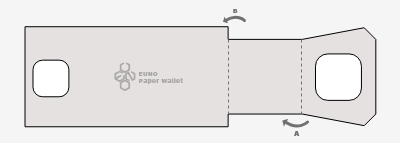
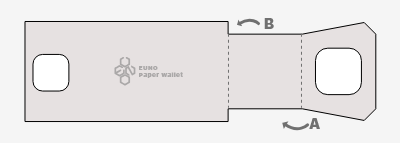
-- Updated fold instruction images -- Updated custom denomination amount dropdown

diff --git a/generate-wallet.html b/generate-wallet.html
@@ -10195,9 +10195,9 @@ Find your scissors! The final step is to cut out your wallet, fold it, and seal 
                   <div id="backDenominationOther" style="display: none;">
                   <input id="backDenominationOtherAmount" maxlength="5" size="6" value="1" onChange="setDenomination('other');">
                   <select id="backDenominationOtherUnit" onChange="setDenomination('other');">
-                  	<option value="BTC">BTC</option>
-                  	<option value="mBTC">mBTC</option>
-                  	<option value="&mu;BTC">&mu;BTC</option>
+                  	<option value="EUNO">EUNO</option>
+                  	<option value="mEUNO">mEUNO</option>
+                  	<option value="&mu;EUNO">&mu;EUNO</option>
                   	<option value="bits">bits</option>
                   </select>
                   </div><!-- end backDenominationOther -->
@@ -10272,11 +10272,11 @@ Find your scissors! The final step is to cut out your wallet, fold it, and seal 
 							<br />
 							<br />
 
-							<img src="images/finished-sample.jpg" width="355" height="144" alt="Sample Wallet">
+							<img src="images/finished-sample.png" width="355" height="144" alt="Sample Wallet">
 							<br />
 							<br />
 
-							<img src="images/finished-sample-bagged.jpg" width="355" height="144" alt="Sealed Wallet">
+							<img src="images/finished-sample-bagged.png" width="355" height="144" alt="Sealed Wallet">
 						</div>
 
 						<span id="instructions22">Cut out your wallet <em>using the front side as a guide, not the back!</em>
